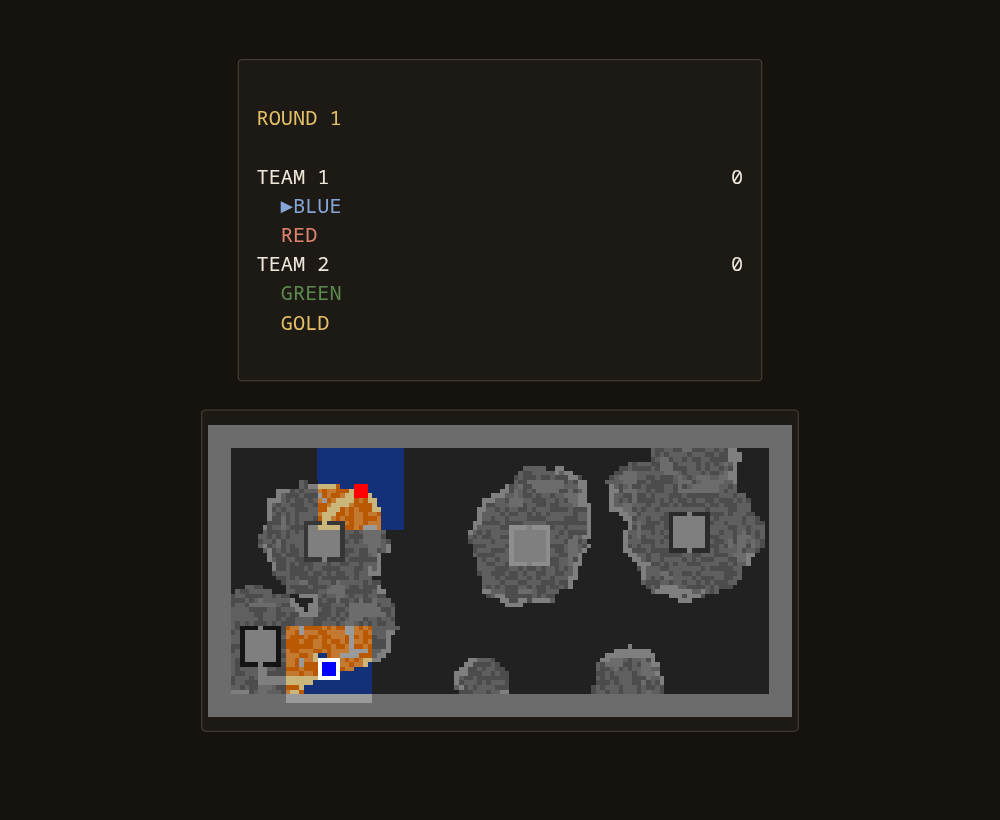
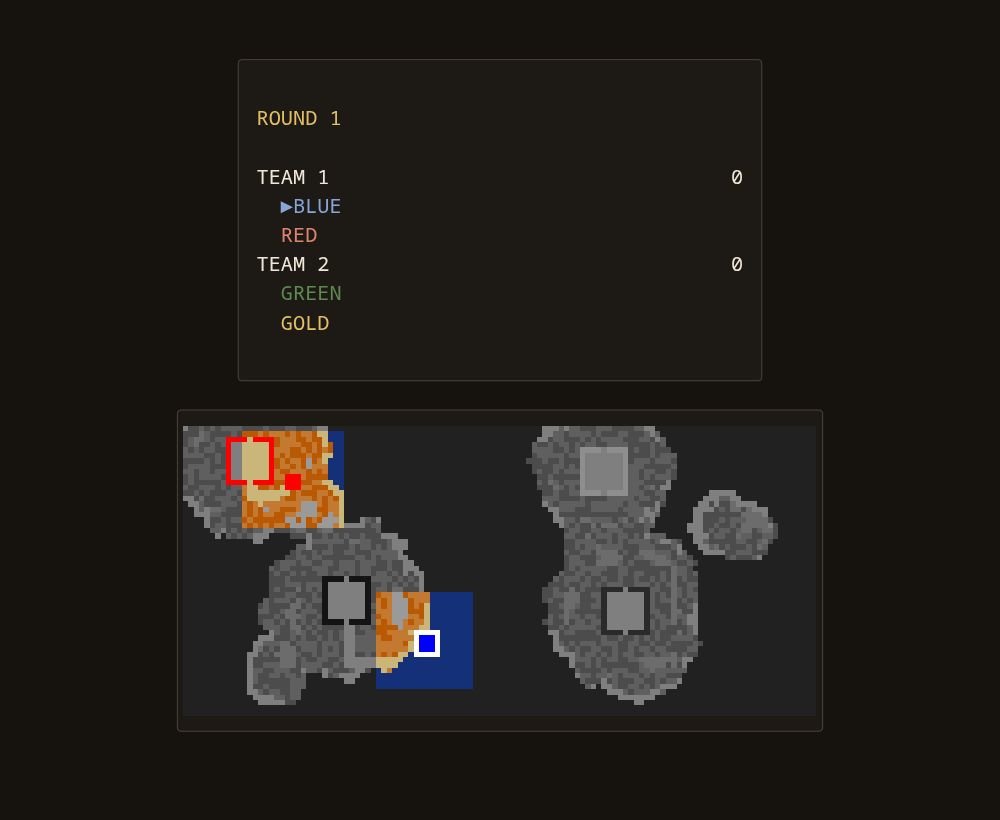
1.3.1: Show map without the rock frame, never-seen parts dithered; generated maps made in a worker thread on the server
- Show map: the world's rock frame cut off (as map pictures), never-seen cells a faint dither instead of the
  background's black; on a phone held upright the map stays when the score is beside it (Display's stacked crop)
- Server: generated maps of online matches made in mapgen-worker.js (startMatch waits for the map, then starts if the
  room still can) - a large map no longer stalls the other games' clocks; net-sim checks the event loop
- Less work per frame: the views' floor planes copied into snapshots only when the original look draws them
  (PlayScreen.wantFloors); Show map tracks only the viewer's team
- Show map screenshots and homepage images again, README / CHANGELOG / Flatpak metainfo for 1.3.1

Changed region(s): [[0.155, 0.5183, 0.806, 0.8841]]

diff --git a/server.js b/server.js
@@ -512,16 +512,31 @@ function createServer(opts = {}) {
   // start, with the players' client ids and names), the connection of each player (socks), held / latched
   // bits, the clock. Classic (BLUE + GREEN players): the original frame format, runs only while both are
   // connected. Extended: runs from the start until it ends (a missing player's tank stands still).
-  function startMatch(room) {
+  // gen: a generated kind's map already made for this start ({seed, code} - startMatch makes it first, in the worker)
+  function startMatch(room, gen) {
+    // (a generated kind: its map made in a worker thread first - mapgen-worker.js, 1.3.1: the games' clocks never wait
+    // for it; then started if the room still can - anything that changed meanwhile: made again)
+    if (!gen && NetProto.genMap(room.map)) {
+      if (room.genPending) return;
+      const want = { map: room.map, size: room.size, n: slotsNow(room).length, seed: (Math.random() * 0x100000000) >>> 0 };
+      room.genPending = want;
+      generatedMap(want.map, want.size, want.n, want.seed).then(code => {
+        room.genPending = null;
+        if (closing || rooms.get(room.id) !== room || room.match || cantStart(room)) return;
+        if (room.map !== want.map || room.size !== want.size || slotsNow(room).length !== want.n) return startMatch(room);
+        startMatch(room, { seed: want.seed, code });
+      });
+      return;
+    }
     if (room.map && !NetProto.genMap(room.map)) galleryPlayed(room.map);   // (a published map: one more play)
     const slots = slotsNow(room);
     const ext = !isClassic(slots, room);
     for (const s of slots) if (!s.bot) { const ws = room.seats[s.color].occ; s.cid = ws.cid; s.name = ws.name; }
     // quick play: every tank has a computer player on every client (a human's takes over when the human leaves)
     if (room.qp) for (const s of slots) if (!s.level) s.level = room.seats[s.color].ai || NetProto.QUICK_LEVEL;
-    const N = slots.length, seed = (Math.random() * 0x100000000) >>> 0;
+    const N = slots.length, seed = gen ? gen.seed : (Math.random() * 0x100000000) >>> 0;
     // a generated kind: this match's own map, from its seed, with a base for every tank (MapGen; the clients get its code)
-    const genCode = NetProto.genMap(room.map) ? generatedMap(room.map, room.size, N, seed) : "";
+    const genCode = gen ? gen.code : "";
     const m = {
       room, no: ++room.matches, seed, ext, slots, qp: room.qp, drives: [],
       cfg: { ext, players: N, slots: slots.map(s => ({ color: s.color, bot: s.bot, level: s.level, team: s.team })),
@@ -1065,12 +1080,43 @@ function createServer(opts = {}) {
     }
     return linkedCache.get(id);
   }
-  // a generated kind's map for a match (mapgen.js - loaded with the engine on the first one): its code
-  let mapGen = null;
+  // a generated kind's map for a match -> a promise of its code ("" = none): made in a worker thread (mapgen-worker.js,
+  // one, kept, unref'd - it never keeps the process alive); no worker or it failed: here (mapgen.js, loaded then)
+  let mapGen = null, genWorker = null, genSeq = 0;
+  const genWaiting = new Map();
   function generatedMap(id, size, n, seed) {
-    mapGen = mapGen || require("./src/js/game/mapgen.js").MapGen;
-    const g = mapGen.parse(id), map = g && mapGen.make({ kind: g.kind, size, bases: n, seed });
-    return map ? MapData.code(map) : "";
+    const kind = NetProto.genMap(id) ? id.split(":")[1] : null;
+    return new Promise(resolve => {
+      if (!kind) return resolve("");
+      const here = () => {
+        mapGen = mapGen || require("./src/js/game/mapgen.js").MapGen;
+        const map = mapGen.make({ kind, size, bases: n, seed });
+        resolve(map ? MapData.code(map) : "");
+      };
+      if (!genWorker) {
+        try {
+          const w = genWorker = new Worker(path.join(__dirname, "mapgen-worker.js"));
+          w.unref();
+          // (only its answers {id, code}: node --watch makes a worker send its required files first)
+          w.on("message", m => {
+            if (!m || typeof m !== "object" || !("id" in m)) return;
+            const r = genWaiting.get(m.id);
+            if (r) { genWaiting.delete(m.id); r(m.code); }
+          });
+          const failed = e => {
+            if (genWorker !== w) return;
+            if (e) say("map worker failed:", e.message);
+            genWorker = null;
+            for (const r of genWaiting.values()) r(null);
+            genWaiting.clear();
+          };
+          w.on("error", failed); w.on("exit", () => failed());
+        } catch (e) { genWorker = null; return here(); }
+      }
+      const k = ++genSeq;
+      genWaiting.set(k, code => (code == null ? here() : resolve(code)));
+      genWorker.postMessage({ id: k, kind, size, bases: n, seed });
+    });
   }
   async function loadMap(id) {
     if (!NetProto.mapId(id)) return null;
@@ -2174,6 +2220,7 @@ function createServer(opts = {}) {
     closing = true;
     server.close();
     for (const r of rooms.values()) if (r.match) { stopClock(r.match); clearTimeout(r.match.aloneTimer); }
+    if (genWorker) { const w = genWorker; genWorker = null; w.terminate().catch(() => {}); }
     clearInterval(errorTimer);
     await Promise.race([flushErrors(), new Promise(res => setTimeout(res, saveMs).unref())]);   // (the kept error reports)
     await flushGallery();                         // (the gallery's plays counted since its last write)

diff --git a/test/seenmap-check.js b/test/seenmap-check.js
@@ -13,12 +13,19 @@
 //   - NetProto: the setting checked, carried by roomSettings / readCfg / engineOptions (never with "off")
 //   node test/seenmap-check.js
 const H = require("./modes-harness.js");
-const { NetProto, MatchText, TunnelerEngine } = require("./src.js");
+const { NetProto, MatchText, TunnelerEngine, MapData } = require("./src.js");
 const { SeenMap } = require("../src/js/draw/seenmap.js");
 const check = H.check;
 
-// (a picture's cells that aren't black)
-const lit = pic => { let n = 0; for (let i = 0; i < pic.w * pic.h; i++) if (pic.rgba[i * 4] | pic.rgba[i * 4 + 1] | pic.rgba[i * 4 + 2]) n++; return n; };
+// (never seen: black or the faint dither - 1.3.1)
+const blank = (rgba, o) => rgba[o] === rgba[o + 1] && (rgba[o] === 0 || rgba[o] === 30) && rgba[o + 2] === rgba[o] + (rgba[o] >> 2);
+// (a picture's cells that aren't never-seen)
+const lit = pic => { let n = 0; for (let i = 0; i < pic.w * pic.h; i++) if (!blank(pic.rgba, i * 4)) n++; return n; };
+// (a world cell i - 4 x 4 px - in the picture, which has no rock frame: its rgba offset, null in the frame)
+const at = (pic, e, i) => {
+  const cw = e.worldW >> 2, K = (cw - pic.w) >> 1, x = i % cw - K, y = Math.floor(i / cw) - K;
+  return x < 0 || y < 0 || x >= pic.w || y >= pic.h ? null : (y * pic.w + x) * 4;
+};
 const run = (showMap, extra = {}, frames = 1500, onFrame) => H.runMatch({ slots: H.slots([1, 2, 1, 2]), levels: ["normal", "normal", "normal", "normal"],
   seed: 5, size: "small", winScore: 3, maxFrames: frames, mods: Object.assign({ showMap }, extra.mods || {}),
   onFrame: (e, f) => { if (!f) e.youPlayer = 1; if (onFrame) onFrame(e, f); } });   // (the page's player: what the map tracks)
@@ -41,7 +48,12 @@ console.log("what each shows");
   check(!snap.pic, "off: the score screen without a picture");
 
   const all = run("all", {}, 300), pa = SeenMap.picture(all.engine, 1);
-  check(pa && pa.w === all.engine.worldW >> 2 && pa.h === all.engine.worldH >> 2, "all: a cell per 4 x 4 world pixels (" + (pa && pa.w) + " x " + (pa && pa.h) + ")");
+  const K = MapData.FRAME[all.engine.size];
+  check(pa && pa.w === (all.engine.worldW >> 2) - 2 * K && pa.h === (all.engine.worldH >> 2) - 2 * K,
+    "all: a cell per 4 x 4 world pixels, without the rock frame (" + (pa && pa.w) + " x " + (pa && pa.h) + ")");
+  let dither = 0;
+  { const o = SeenMap.picture(run("own", {}, 100).engine, 1); for (let i = 0; i < o.w * o.h; i++) if (o.rgba[i * 4] === 30) dither++; }
+  check(dither > 0, "never seen: a faint dither, not the background's black (" + dither + " cells)");
   check(lit(pa) > pa.w * pa.h * 0.5, "all: the world shown (" + lit(pa) + " of " + pa.w * pa.h + " cells not black)");
 
   let early = 0;
@@ -64,16 +76,19 @@ console.log("what each shows");
   let gray = 0, colour = 0;
   for (let i = 0; i < p2.w * p2.h; i++) {
     const r = p2.rgba[i * 4], g = p2.rgba[i * 4 + 1], b = p2.rgba[i * 4 + 2];
+    if (blank(p2.rgba, i * 4)) continue;
     if (r === g && g === b && r) gray++; else if (r !== g || g !== b) colour++;
   }
   check(gray > colour && colour > 0, "all: what isn't seen now gray (" + gray + "), what is in colour (" + colour + ")");
   // (allteam: the teammates' sight changes it too - where only a mate looked, the world as it is now)
-  const at = run("allteam", {}, 1500).engine, mate2 = at.teamMembers(at.team(1)).find(p => p !== 1);
-  const pAll = SeenMap.picture(e2, 1), pTeam = SeenMap.picture(at, 1);
+  const et = run("allteam", {}, 1500).engine, mate2 = et.teamMembers(et.team(1)).find(p => p !== 1);
+  const pAll = SeenMap.picture(e2, 1), pTeam = SeenMap.picture(et, 1);
   let mateOnly = 0, diff = 0;
-  for (let i = 0; i < at.seenCells[1].length; i++) if (at.seenAt[mate2][i] && !at.seenAt[1][i]) {
+  for (let i = 0; i < et.seenCells[1].length; i++) if (et.seenAt[mate2][i] && !et.seenAt[1][i]) {
+    const o = at(pTeam, et, i);
+    if (o === null) continue;
     mateOnly++;
-    if (pAll.rgba[i * 4] !== pTeam.rgba[i * 4] || pAll.rgba[i * 4 + 1] !== pTeam.rgba[i * 4 + 1]) diff++;
+    if (pAll.rgba[o] !== pTeam.rgba[o] || pAll.rgba[o + 1] !== pTeam.rgba[o + 1]) diff++;
   }
   check(mateOnly > 0 && diff > 0, "allteam: where only a teammate looked the map differs from all's (" + diff + " of " + mateOnly + " cells)");
 
@@ -84,8 +99,12 @@ console.log("what each shows");
   const pt = SeenMap.picture(e, 1), mate = e.teamMembers(e.team(1)).find(p => p !== 1);
   const mine = e.seenCells[1], theirs = e.seenCells[mate];
   let missing = 0;
-  for (let i = 0; i < mine.length; i++) if ((mine[i] || theirs[i]) && !(pt.rgba[i * 4 + 3])) missing++;
-  check(mate && missing === 0, "team: every cell a member has seen is on the map");
+  for (let i = 0; i < mine.length; i++) {
+    const o = at(pt, e, i);
+    // (an open cell on classic ground is black itself - the newer memory of the two may be one)
+    if ((mine[i] || theirs[i]) && o !== null && blank(pt.rgba, o) && !((mine[i] === 1 || theirs[i] === 1) && e.groundType === "classic")) missing++;
+  }
+  check(mate && missing === 0, "team: every cell a member has seen is on the map (" + missing + " missing)");
   check(e.teamMembers(e.team(1)).every(p => e.seenCells[p]) && [2, 4].every(p => !e.seenCells[p] || e.team(p) === e.team(1)),
     "only the viewer's team is tracked (what the map can show)");
   const ownOfTeam = SeenMap.picture(Object.assign(Object.create(Object.getPrototypeOf(e)), e, { showMap: "own" }), 1);

diff --git a/src/js/draw/seenmap.js b/src/js/draw/seenmap.js
@@ -10,7 +10,9 @@
 //   "allteam"  Revealed (team): the same, changed by what the viewer's team sees
 // (owner, 2026-10-31: "Seen by me, Seen by team (if team exist), Revealed instead of Everything and Revealed (team)";
 // the team ones without teammates: as the viewer's own)
-// What one of them sees now in its colours, the rest gray (remembered); never seen black. Tanks: the viewer's team and
+// What one of them sees now in its colours, the rest gray (remembered); never seen a faint dark dither (1.3.1: not the
+// background's black - the edge of what is known shows). Without the world's rock frame (as map pictures:
+// MapData.FRAME cells on every side). Tanks: the viewer's team and
 // the tanks one of them sees now. A cell of the map is 4 x 4 world pixels (the map editor's cell): rock gray, dirt in the
 // game's browns, open floor in the ground's look (classic black, sand, grass), water blue. Bases: their walls in their
 // tank's colour (once their middle cell is known); tanks: a 3 x 3 square in their colour, the viewer's own with a white
@@ -22,6 +24,7 @@ import { PlayScreen } from "./playscreen.js";
 
 const OPEN = 1, DIRT = 2, ROCK = 3, WATER = 4;            // (seenCells: 0 = never seen)
 const NOW = 2;                                           // (seen in the last NOW steps: "now" - in colour)
+const UNSEEN = 30;                                       // (never seen: every other cell this dark gray, a hint of blue)
 
 // does the team of `viewers` see world pixel (x, y) now? Line of sight off: inside a viewer's view window (its cam)
 function seesNow(e, viewers, x, y) {
@@ -69,7 +72,8 @@ function picture(e, viewer) {
   for (let cy = 0; cy < ch; cy++)
     for (let cx = 0; cx < cw; cx++) {
       const i = cy * cw + cx, k = known[i];
-      if (k) put(cx, cy, look(k, cx, cy), !seen(i)); else put(cx, cy, 0);
+      if (k) put(cx, cy, look(k, cx, cy), !seen(i));
+      else { const o = i * 4, v = (cx ^ cy) & 1 ? UNSEEN : 0; rgba[o] = rgba[o + 1] = v; rgba[o + 2] = v + (v >> 2); rgba[o + 3] = 255; }
     }
   // the bases: walls 17 px from the middle (4 cells), the doorways at the top and the bottom
   for (let p = 1; p <= e.nPlayers; p++) {
@@ -91,7 +95,12 @@ function picture(e, viewer) {
     if (p === viewer) for (let dy = -2; dy <= 2; dy++) for (let dx = -2; dx <= 2; dx++) put(tx + dx, ty + dy, 15);
     for (let dy = -1; dy <= 1; dy++) for (let dx = -1; dx <= 1; dx++) put(tx + dx, ty + dy, c);
   }
-  return { w: cw, h: ch, rgba };
+  // (without the rock frame round the world: MapData.FRAME cells on every side)
+  const K = Math.min(MapData.FRAME[e.size] || 0, (Math.min(cw, ch) >> 1) - 1), w = cw - 2 * K, h = ch - 2 * K;
+  if (K <= 0) return { w: cw, h: ch, rgba };
+  const out = new Uint8ClampedArray(w * h * 4);
+  for (let y = 0; y < h; y++) out.set(rgba.subarray(((y + K) * cw + K) * 4, ((y + K) * cw + K + w) * 4), y * w * 4);
+  return { w, h, rgba: out };
 }
 
 export const SeenMap = { picture };

diff --git a/site/index.html b/site/index.html
@@ -328,8 +328,8 @@
       <p data-i18n="new.smap.p2">The map's size is chosen in the map picker now, and the lobby's Map row shows it: Rivers (Large), or a map of yours with its bases, Crossroads (Large, 6).</p>
     </div>
     <figure class="shot">
-      <a class="zoom th-o" href="img/score-map.png"><img src="img/score-map.png" width="611" height="685" loading="lazy" data-i18n-alt="new.smap.alt" alt="Tab held during a team game on generated islands: the round and the teams' scores, below them the map - the islands in gray, what the team sees now in color"></a>
-      <a class="zoom th-m" href="img/modern-score-map.png"><img src="img/modern-score-map.png" width="610" height="685" loading="lazy" data-i18n-alt="new.smap.alt" alt="Tab held during a team game on generated islands: the round and the teams' scores, below them the map - the islands in gray, what the team sees now in color"></a>
+      <a class="zoom th-o" href="img/score-map.png"><img src="img/score-map.png" width="660" height="685" loading="lazy" data-i18n-alt="new.smap.alt" alt="Tab held during a team game on generated islands: the round and the teams' scores, below them the map - the islands in gray, what the team sees now in color"></a>
+      <a class="zoom th-m" href="img/modern-score-map.png"><img src="img/modern-score-map.png" width="658" height="685" loading="lazy" data-i18n-alt="new.smap.alt" alt="Tab held during a team game on generated islands: the round and the teams' scores, below them the map - the islands in gray, what the team sees now in color"></a>
       <figcaption data-i18n="new.smap.cap">Tab held, Show map: Revealed (team). Gray is the world as the match started.</figcaption>
     </figure>
   </div>

diff --git a/test/net-sim.js b/test/net-sim.js
@@ -705,6 +705,25 @@ async function main() {
     check("no desync (gen)", () => assert(![g1, g2].some(c => c.desync) && gm.desyncs === 0));
     for (const c of [g1, g2]) await c.close();
   }
+  // (1.3.1: the map made in a worker thread - mapgen-worker.js: starting a large match with 8 tanks on a generated map
+  // doesn't stall the server's event loop, so other rooms' clocks keep ticking; made here it took 100 - 400 ms)
+  {
+    const { monitorEventLoopDelay } = require("perf_hooks");
+    const br = (await http(port, "POST", "/api/rooms", { name: "Big gen", size: "large", map: "gen:labyrinth:natural",
+      seats: [{ kind: "open", team: 1 }].concat([2, 3, 4, 5, 6, 7, 8].map(t => ({ kind: "easy", team: t }))) })).json;
+    const b1 = await new FakeClient(port, br.id, { name: "B1", host: br.hostKey }).connect();
+    await until(() => b1.status && b1.status.settings.map === "gen:labyrinth:natural" && b1.status.cant === null, "big gen room ready");
+    await settle();
+    const h = monitorEventLoopDelay({ resolution: 5 });
+    h.enable();
+    b1.send({ t: "start" });
+    await until(() => b1.match, "big gen match", 20000);
+    h.disable();
+    const map = MapData.decode(b1.cfg.map), worst = Math.round(h.max / 1e6);
+    check("a large generated map for 8 tanks, made in the worker: the event loop never stalled (worst " + worst + " ms)", () =>
+      assert(map && map.size === "large" && map.bases.length === 8 && worst < 90, worst + " ms"));
+    await b1.close();
+  }
 
   // ---------------------------------------------------------------- Show map, a map with its size (1.3, owner 2026-10-31)
   console.log("show map, the map's size online");

diff --git a/src/js/draw/playscreen.js b/src/js/draw/playscreen.js
@@ -201,7 +201,8 @@ class PlayScreen {
       s.cams = this.cams.map(c => c && [c.x, c.y]);
       s.tanks = Array.from({ length: this.e.nPlayers + 1 }, (_, p) => p ? [this.e.tankX[p], this.e.tankY[p], this.e.alive[p] ? 1 : 0] : null);
       if (this.e.sight !== "full") s.dims = this.viewDims.map(d => d.slice());
-      if (this.viewFloors) s.floors = this.viewFloors.map(f => f.slice());
+      // (the views' floor planes: only when the original look draws them - views.js sets wantFloors)
+      if (this.viewFloors && PlayScreen.wantFloors()) s.floors = this.viewFloors.map(f => f.slice());
     }
     else if (this.mode === "text") s.text = this.textOps.map(o => o.slice());
     else {
@@ -696,29 +697,13 @@ class PlayScreen {
       if (((p - 1) & 1) + 1 === turn && hiB(this.e.energy[p]) !== hiB(this.shownEnergy[p])) this.drawGaugeExt(p, 1);
     }
   }
-
-
-
-
-
-
-
-
-
-
-
-
-
-
-
-
-
-
-
 }
 
 PlayScreen.FLOOR_LOOK = FLOOR_LOOK;
 PlayScreen.floorLook = floorLook;     // (floor, x, y, ground, still) -> FLOOR_LOOK of an open world pixel
 PlayScreen.rippleAt = rippleAt;
+// do play snapshots carry the views' floor planes? Only the original look's painting reads them (views.js: the original
+// look, or a modern one that failed); node, tests: always
+PlayScreen.wantFloors = () => true;
 
 export { PlayScreen };

diff --git a/mapgen-worker.js b/mapgen-worker.js
@@ -1,0 +1,18 @@
+"use strict";
+// Generated maps for the online matches (1.3.1, docs/v6/MAPS.md 5b): mapgen.js in a worker thread of server.js, so that
+// the games' clock never waits while one is made (a large map with 8 bases: 100 - 400 ms). One worker, kept: each
+// message {id, kind, size, bases, seed} gets {id, code} back (code: the map's code, "" when none could be made).
+//   new Worker(__filename)
+const { parentPort } = require("worker_threads");
+const { MapGen } = require("./src/js/game/mapgen.js");
+const { MapData } = require("./src/js/game/mapdata.js");
+
+parentPort.on("message", msg => {
+  if (!msg || typeof msg !== "object") return;
+  let code = "";
+  try {
+    const map = MapGen.make({ kind: msg.kind, size: msg.size, bases: msg.bases, seed: msg.seed });
+    code = map ? MapData.code(map) : "";
+  } catch (e) { code = ""; }
+  parentPort.postMessage({ id: msg.id, code });
+});

diff --git a/src/js/draw/views.js b/src/js/draw/views.js
@@ -45,6 +45,9 @@ import { Scope } from "../scope.js";
 import { Surface } from "./surface.js";
 import { GameScreen } from "../io/screen.js";
 
+// (the views' floor planes only when they are painted: the original look, or a modern one that failed - 1.3.1)
+PlayScreen.wantFloors = () => Gfx.mode() !== "modern" || !!Gfx.modernFailed;
+
 const MODES = ["grid", "map", "follow"];
 const ASPECT = 1.35;               // vertical / horizontal pixel scale of the 720x400 screen at 4:3
 const MAX_POWER = 11400;           // engine MaxPower (full energy / shield)

diff --git a/src/js/draw/gfx.js b/src/js/draw/gfx.js
@@ -255,7 +255,7 @@ class Presenter {
         gl.drawArrays(gl.TRIANGLES, 0, 3);
       }
       if (!sc || this.modernFailed || !Gfx.Modern) return true;
-      if (!this.modern) { this.modern = Gfx.Modern.create(gl); this.modernFailed = !this.modern; }
+      if (!this.modern) { this.modern = Gfx.Modern.create(gl); this.modernFailed = !this.modern; if (this.modernFailed) Gfx.modernFailed = true; }
       if (!this.modern) return true;
       const set = Gfx.modern();
       set.depth = Gfx.depth(set);

diff --git a/docs/NOTES.md b/docs/NOTES.md
@@ -1206,9 +1206,11 @@ page from before 2.0 - is refused (POST 409 `{code:
   the view window, on: what `sightView` lit. "all" / "allteam": every cell filled from the world when the match starts,
   then only seeing changes it ("show map everything should only reveal the map but not update from the enemy view").
   The picture: the newest memory of the viewers (own / all: the viewer; team / allteam: its team), what they see now in
-  colour, the
-  rest gray, never seen black; bases once known; tanks: the viewer's team and the ones they see now (the viewer's own
-  with a white edge). Not split screen, the daily challenge, replays. The lobbies: no Map size row - the map picker
+  colour, the rest gray, never seen a faint dark dither (1.3.1 - not the background's black); without the world's
+  rock frame (MapData.FRAME cells, as map pictures); bases once known; tanks: the viewer's team and the ones they see
+  now (the viewer's own with a white edge). Only `youPlayer`'s cells are tracked (with the team modes its team's -
+  1.3.1). Display's phone crop moves the picture with its rows, the stacked layout too (`zoom`: `z.pic`). Not split
+  screen, the daily challenge, replays. The lobbies: no Map size row - the map picker
   sets it (see docs/v6/MAPS.md 6). Test: test/seenmap-check.js (display only, each mode, the layout, NetProto).
 - **Teammates marked** (owner, 2026-10-28; display only): `views.js teamMarks(e, viewer)` - the viewer's team but itself,
   alive (`tunneler.teammarks` "0" = off; Settings, Gameplay; CloudSave). Original look: `paintMarks` draws a 7 x 5

diff --git a/docs/v6/MAPS.md b/docs/v6/MAPS.md
@@ -305,7 +305,9 @@ their water): water-check pins that, and pins 1.3's own maps (a patch never chan
 + - * / and `Math.floor` / `round` (no sin / cos / hypot / sqrt): every browser and the server make the same map.
 
 Speed (node 24, a large map with 8 bases, mostly `mapReach`): 100 - 175 ms per kind (the
-first, before the JIT, up to ~400 ms). NetProto's `GEN_ID` takes the ten kinds (pages and servers of 1.2 don't know
+first, before the JIT, up to ~400 ms) - so the server makes them in a worker thread (1.3.1: `mapgen-worker.js`, one,
+kept and unref'd; `startMatch` waits for the map, then starts if the room still can - a change meanwhile makes it
+again; no worker: made in the server's own thread as before; net-sim checks the event loop doesn't stall). NetProto's `GEN_ID` takes the ten kinds (pages and servers of 1.2 don't know
 the new ones: 1.3 is a minor). Texts: `gen.<kind>` / `gen.<kind>.i` in `src/lang/<code>/water.js` ("generated
 kinds"). Tests: mapgen-check (every kind x size x a sample of base counts, natural: made, reachable, valid, sand /
 grass, no water by a base, rivers / islands wet; 1 in 3 wet; the overrides; NetProto's

diff --git a/docs/RENDERING.md b/docs/RENDERING.md
@@ -88,7 +88,8 @@ changes the engine, the AI, the protocol or replays (a patch).
   when the view scrolls), 3 sand, 4 grass, 0 = the pixel's own colour - only where the pixel is 0, from
   `engine.floor` and `engine.groundType` (`floorLook`): water; the shore (floor 3) sand on every ground; open from the
   start in the ground's look (classic: black); dug (floor 0, pixel 0) sand on sand / grass, black on classic. Snapshots
-  carry `floors` (per view) and the world map's `floor` (no ripple); display.js `paint(..., dim, floor)` draws a look
+  carry `floors` (per view - only while `PlayScreen.wantFloors()`: views.js says the original look, or a modern one
+  that failed; 1.3.1) and the world map's `floor` (no ripple); display.js `paint(..., dim, floor)` draws a look
   where the pixel is 0 in `FLOOR_RGB` (6-bit DAC values), gray where the dim plane says remembered. Line of sight:
   `sightSeen` (a bit per world pixel and player) - never seen stays black. The live map (views.js `drawMap`), map
   pictures (mappic.js) and the editor (maps.js `render`, its own plane) use the same looks. With `engine.floor` null
